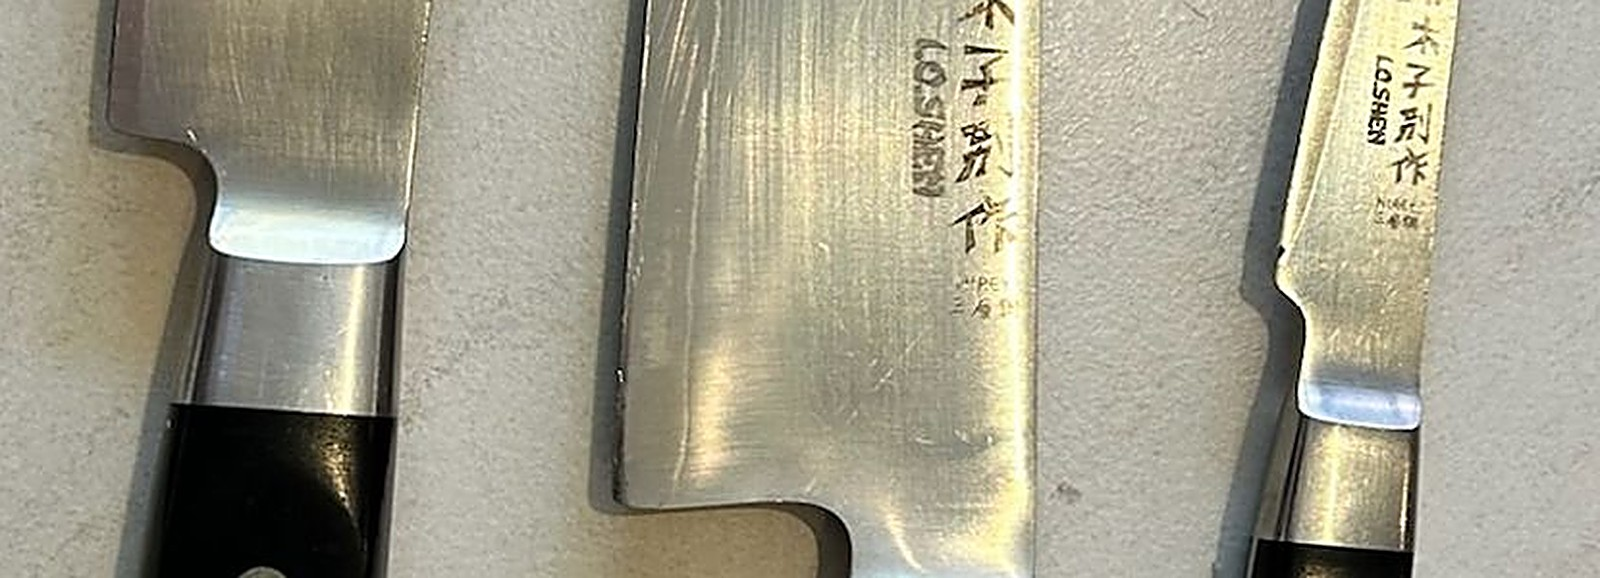
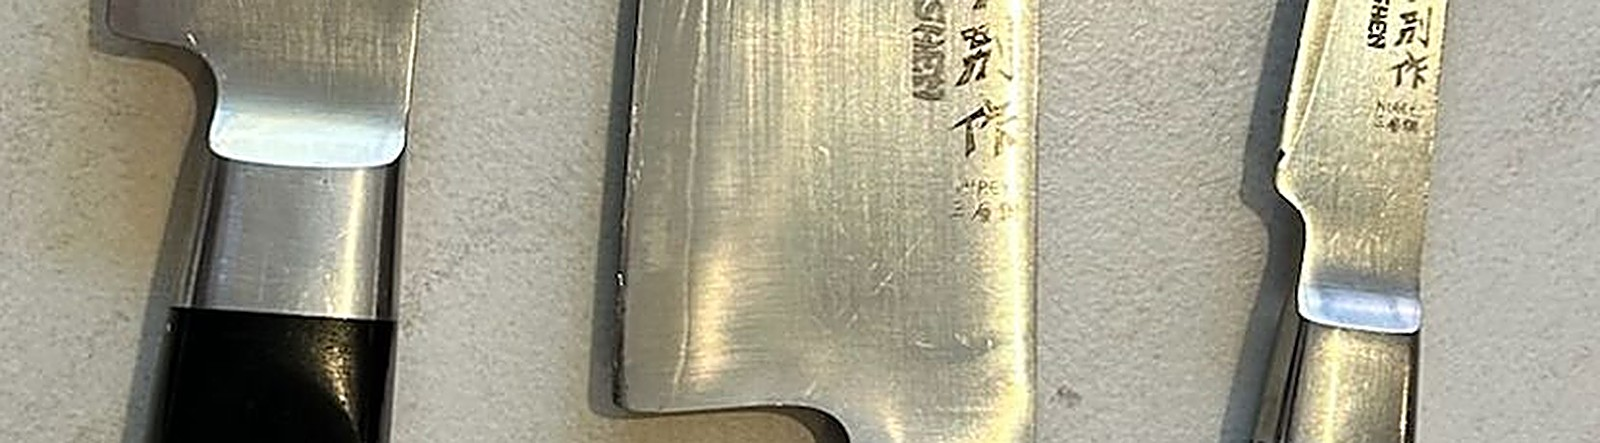
Re-crop knife edge detail photo tighter on the blade heels
Replaces the edge close-up with a tighter crop focused on the lower
blade edges, updating the page's width/height props to match the new
aspect ratio. The source photo (same one used site-wide as the
after-sharpening shot) still shows clean, sharp edges with fine
brushed-finish scratches but no chips or rolled edges, so the existing
"prior to sharpening" caption is left as-is rather than claiming
damage the image doesn't show.

Claude-Session: https://claude.ai/code/session_013es6xnogAGPbgF13aEP5Ff

diff --git a/src/app/knife-sharpening/page.tsx b/src/app/knife-sharpening/page.tsx
@@ -127,7 +127,7 @@ function KnifeEdgeDetailPhoto() {
           src="/knife_damage_zoom.jpg"
           alt="Knife edge detail prior to sharpening."
           width={1600}
-          height={578}
+          height={443}
           className="h-auto w-full"
         />
       </div>
